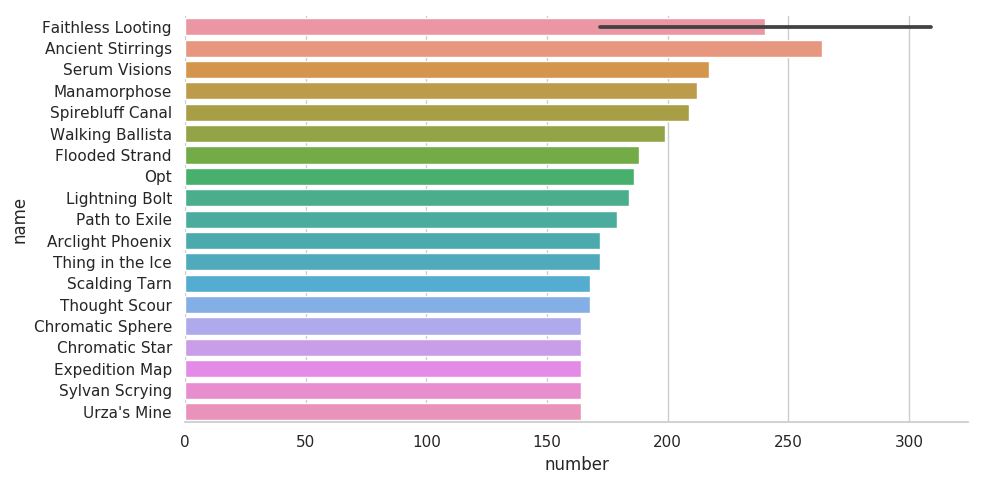
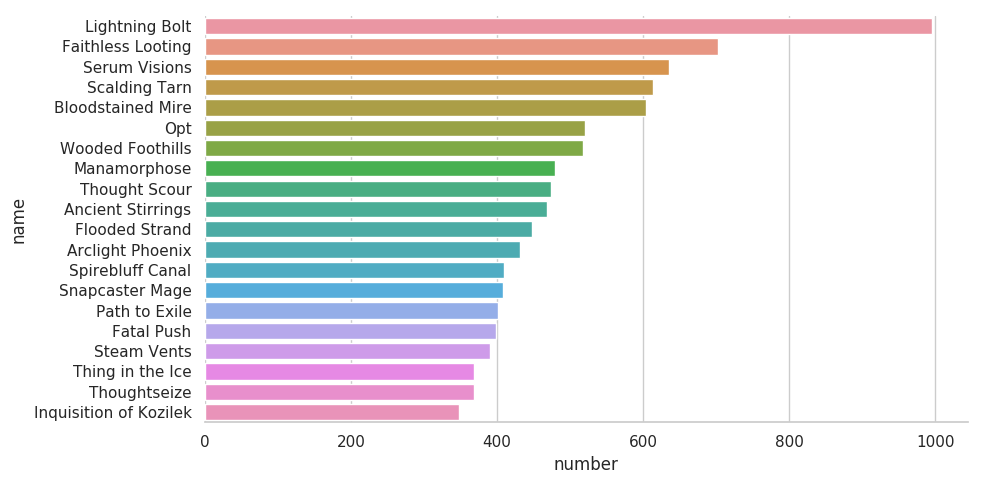
Thesis work

diff --git a/src/analysis/mana_archetype.py b/src/analysis/mana_archetype.py
@@ -4,6 +4,7 @@ from mana_archetype_db import Database
 import numpy as np
 import pandas as pd
 import seaborn as sns
+from scipy import stats
 import matplotlib.pyplot as plt
 import matplotlib.pyplot as plt; plt.rcdefaults()
 
@@ -14,12 +15,14 @@ def mana_and_archetype(rows,color_number):
     mana_array = []
     arch_array = []
     rare_array = []
+    color_array = []
     for row in rows:
         color = row[0]
         number = row[1]
         cost = row[2]
         archetype = row[3]
         rarity = row[4]
+        cardcol = row[5]
         # The following lines check to see if both the color and mana cost are
         # in an item in the 2d array
         if archetype != 'Land':
@@ -36,6 +39,20 @@ def mana_and_archetype(rows,color_number):
 
                 if count == 0:
                     mana_array.append([color,number,cost])
+
+            if len(color_array) == 0:
+                color_array.append([color,number,cardcol])
+
+            else:
+                count = 0
+                for i in range(len(color_array)):
+                    if color in color_array[i]:
+                        if cardcol in color_array[i]:
+                            color_array[i][1] += number
+                            count += 1
+
+                if count == 0:
+                    color_array.append([color,number,cardcol])
 
         if len(arch_array) == 0:
             arch_array.append([color,number,archetype])
@@ -66,32 +83,32 @@ def mana_and_archetype(rows,color_number):
                 rare_array.append([color,number,rarity])
 
     mana_array = sorted(mana_array, key=lambda x: x[2], reverse=False)
-    totalcards = 0
+
+    temp_array = []
+    for man in mana_array:
+        for x in range(man[1]):
+            temp_array.append(man[2])
+
+    print(color," Std, mean, median, mode:",np.std(temp_array),np.mean(temp_array),np.median(temp_array),stats.mode(temp_array))
+
+    # Takes the average of all cards so as to get a sensible curve.
     for j in range(len(mana_array)):
-        totalcards += mana_array[j][1]
         mana_array[j][1] /= color_number
-        print(mana_array[j])
 
-    totalcards2 = 0
-    for j in range(len(arch_array)):
-        totalcards2 += arch_array[j][1]
-
-    print(totalcards)
-    print(totalcards2)
-    plot_results(mana_array,arch_array,rare_array,row[0])
+    plot_results(mana_array,arch_array,rare_array,color_array,row[0])
 
 
-def plot_results(mana_array,arch_array,rare_array,color):
+def plot_results(mana_array,arch_array,rare_array,color_array,color):
     mana_str = 'src/analysis/graphs/mana_' + color + '.png'
     arch_str = 'src/analysis/graphs/arch_' + color + '.png'
     rare_str = 'src/analysis/graphs/rare_' + color + '.png'
+    color_str = 'src/analysis/graphs/color_' + color + '.png'
     mana_headers = [["color","number","cost"]]
     mana_headers += mana_array
 
     labels = []
     sizes = []
     for arc in arch_array:
-        print(arc)
         labels.append(arc[2])
         sizes.append(arc[1])
 
@@ -123,7 +140,6 @@ def plot_results(mana_array,arch_array,rare_array,color):
     rare_labels = []
     rare_sizes = []
     for rar in rare_array:
-        print(rar)
         rare_labels.append(rar[2])
         rare_sizes.append(rar[1])
 
@@ -139,6 +155,25 @@ def plot_results(mana_array,arch_array,rare_array,color):
     plt.tight_layout()
     plt.savefig(rare_str)
 
+    color_labels = []
+    color_sizes = []
+    for col in color_array:
+        color_labels.append(col[2])
+        color_sizes.append(col[1])
+
+    colors = ['#ff9999','#66b3ff','#99ff99','#ffcc99']
+
+    fig2, ax2 = plt.subplots()
+    ax2.pie(color_sizes, labels=color_labels, colors=colors, autopct='%1.1f%%',
+            shadow=True, startangle=90)
+
+    # Equal aspect ratio ensures that pie is drawn as a circle
+    ax2.axis('equal')
+
+    plt.tight_layout()
+    plt.savefig(color_str)
+
+
 def main():
     db_file = 'databases/MtG.db'
     conn = Database.create_connection(db_file)
@@ -147,7 +182,6 @@ def main():
         for color in colors:
             rows = Database.man_arch(conn,color)
             color_number = Database.deck_count(conn,color)
-            print(color_number)
             mana_and_archetype(rows,color_number[0][0])
 
 if __name__ == '__main__':

diff --git a/src/analysis/rank_test.py b/src/analysis/rank_test.py
@@ -6,6 +6,7 @@ from top_colors_db import Database
 import numpy as np
 import pandas as pd
 import seaborn as sns
+from scipy import stats
 import matplotlib.pyplot as plt
 import matplotlib.pyplot as plt; plt.rcdefaults()
 
@@ -40,7 +41,6 @@ with conn:
 
 
 for deck in color_rank_array:
-    print(deck)
     total = 0
     for count in range(1,5):
         total += deck[count]
@@ -57,6 +57,7 @@ count = 0
 top_decks = 0
 for x in top_colors_array:
     if count < 10:
+        print(x)
         labels.append(x[0])
         sizes.append(x[1])
         top_decks += x[1]
@@ -64,7 +65,6 @@ for x in top_colors_array:
     else:
         pass
 
-print(top_decks)
 
 other_decks = 767-top_decks
 labels.append("other")
@@ -120,6 +120,85 @@ for x in fourth[:4]:
             values.append(x[y])
     values.append("Fourth")
     headers.append(values)
+
+chaos_array = []
+mono_array = []
+temur_array = []
+bant_array = []
+for x in headers:
+    if x[0] == 'chaos':
+        if x[2] == 'First':
+            i = 0
+            for i in range(x[1]):
+                chaos_array.append(1)
+        elif x[2] == 'Second':
+            i = 0
+            for i in range(x[1]):
+                chaos_array.append(2)
+        elif x[2] == 'Third':
+            i = 0
+            for i in range(x[1]):
+                chaos_array.append(3)
+        else:
+            i = 0
+            for i in range(x[1]):
+                chaos_array.append(4)
+    elif x[0] == 'mono green':
+        if x[2] == 'First':
+            i = 0
+            for i in range(x[1]):
+                mono_array.append(1)
+        elif x[2] == 'Second':
+            i = 0
+            for i in range(x[1]):
+                mono_array.append(2)
+        elif x[2] == 'Third':
+            i = 0
+            for i in range(x[1]):
+                mono_array.append(3)
+        else:
+            i = 0
+            for i in range(x[1]):
+                mono_array.append(4)
+    elif x[0] == 'temur':
+        if x[2] == 'First':
+            i = 0
+            for i in range(x[1]):
+                temur_array.append(1)
+        elif x[2] == 'Second':
+            i = 0
+            for i in range(x[1]):
+                temur_array.append(2)
+        elif x[2] == 'Third':
+            i = 0
+            for i in range(x[1]):
+                temur_array.append(3)
+        else:
+            i = 0
+            for i in range(x[1]):
+                temur_array.append(4)
+    elif x[0] == 'bant':
+        if x[2] == 'First':
+            i = 0
+            for i in range(x[1]):
+                bant_array.append(1)
+        elif x[2] == 'Second':
+            i = 0
+            for i in range(x[1]):
+                bant_array.append(2)
+        elif x[2] == 'Third':
+            i = 0
+            for i in range(x[1]):
+                bant_array.append(3)
+        else:
+            i = 0
+            for i in range(x[1]):
+                bant_array.append(4)
+
+print("Chaos Std, mean, median, mode:",np.std(chaos_array),np.mean(chaos_array),np.median(chaos_array),stats.mode(chaos_array))
+print("Mono Std, mean, median, mode:",np.std(mono_array),np.mean(mono_array),np.median(mono_array),stats.mode(mono_array))
+print("Temur Std, mean, median, mode:",np.std(temur_array),np.mean(temur_array),np.median(temur_array),stats.mode(temur_array))
+print("Bant Std, mean, median, mode:",np.std(bant_array),np.mean(bant_array),np.median(bant_array),stats.mode(bant_array))
 
 with open('src/analysis/rank_file.csv', 'w', newline='') as f:
     writer = csv.writer(f)

diff --git a/src/analysis/replace_x.py b/src/analysis/replace_x.py
@@ -1,0 +1,64 @@
+import sys
+import sqlite3
+from sqlite3 import Error
+
+
+def create_connection(db_file):
+    """ create a database connection to a SQLite database """
+    try:
+        conn = sqlite3.connect(db_file)
+        return conn
+    except Error as e:
+        print(e)
+
+    return None
+
+def get_x(conn):
+    """
+    Query all rows in the colors table
+    :param conn: the Connection object
+    :return:
+    """
+    test=('%x%',)
+    sql = ''' SELECT Card_ID, Card_Color
+                FROM Cards
+                WHERE Card_Color
+                LIKE ?'''
+
+    cur = conn.cursor()
+    cur.execute(sql,test)
+
+    rows = cur.fetchall()
+
+    return rows
+
+def update_x(conn,test):
+    """
+    Query all rows in the colors table
+    :param conn: the Connection object
+    :return:
+    """
+    sql = ''' UPDATE Cards
+                SET Card_Color=?
+                WHERE Card_ID=?'''
+
+    cur = conn.cursor()
+    cur.execute(sql,test)
+
+
+def color_updater(conn):
+    with conn:
+        rows = get_x(conn)
+        for row in rows:
+            newcolor = row[1].replace('x','')
+            test = (newcolor,row[0])
+            update_x(conn,test)
+
+def main():
+    db_file = 'databases/MtG.db'
+    conn = create_connection(db_file)
+    with conn:
+        color_updater(conn)
+
+if __name__ == '__main__':
+    main()

diff --git a/src/analysis/top_cards_db.py b/src/analysis/top_cards_db.py
@@ -19,14 +19,12 @@ class Database:
         :param conn: the Connection object
         :return:
         """
-        sql = ''' SELECT Name, Number
+        sql = ''' SELECT Name, Number, Colors.Card_ID
                     FROM Colors
                     INNER JOIN Cards
                     ON Colors.Card_ID=Cards.Card_ID
-                    WHERE Name
-                    NOT IN ('Island','Swamp','Plains','Forest','Mountain')
-                    ORDER BY Number
-                    DESC LIMIT 20'''
+                    WHERE Rarity!='B'
+                    ORDER BY Colors.Card_ID'''
 
         cur = conn.cursor()
         cur.execute(sql)
@@ -46,8 +44,7 @@ class Database:
                     FROM Colors
                     INNER JOIN Cards
                     ON Colors.Card_ID=Cards.Card_ID
-                    WHERE Name
-                    NOT IN ('Island','Swamp','Plains','Forest','Mountain')
+                    WHERE Rarity!='B'
                     AND Color=?
                     ORDER BY Number
                     DESC LIMIT 20'''

diff --git a/src/analysis/top_cards.py b/src/analysis/top_cards.py
@@ -10,8 +10,26 @@ import matplotlib.pyplot as plt; plt.rcdefaults()
 def plot_data(rows):
     sns.set(style="whitegrid")
 
+    position = 0
+    totals = []
+    cards = []
+    for row in rows:
+        if not totals:
+            totals.append([row[0],row[1],row[2]])
+        else:
+            if row[2] != totals[position][2]:
+                totals.append([row[0],row[1],row[2]])
+                position += 1
+            else:
+                totals[position][1] += row[1]
+
+    topcards = sorted(totals, key=lambda x: x[1], reverse=True)
+    for card in topcards[:20]:
+        cards.append([card[0],card[1]])
+        print(card)
+
     top_headers=[["name","number"]]
-    top_headers += rows
+    top_headers += cards
 
     with open('src/analysis/topcards_file.csv', 'w', newline='') as f:
         writer = csv.writer(f)

diff --git a/src/analysis/mana_archetype_db.py b/src/analysis/mana_archetype_db.py
@@ -20,7 +20,7 @@ class Database:
         :return:
         """
         test = (color,)
-        sql = ''' SELECT Color, Number, Mana_Cost, Archetype, Rarity
+        sql = ''' SELECT Color, Number, Mana_Cost, Archetype, Rarity, Card_Color
                     FROM Colors
                     INNER JOIN Cards
                     ON Colors.Card_ID=Cards.Card_ID
